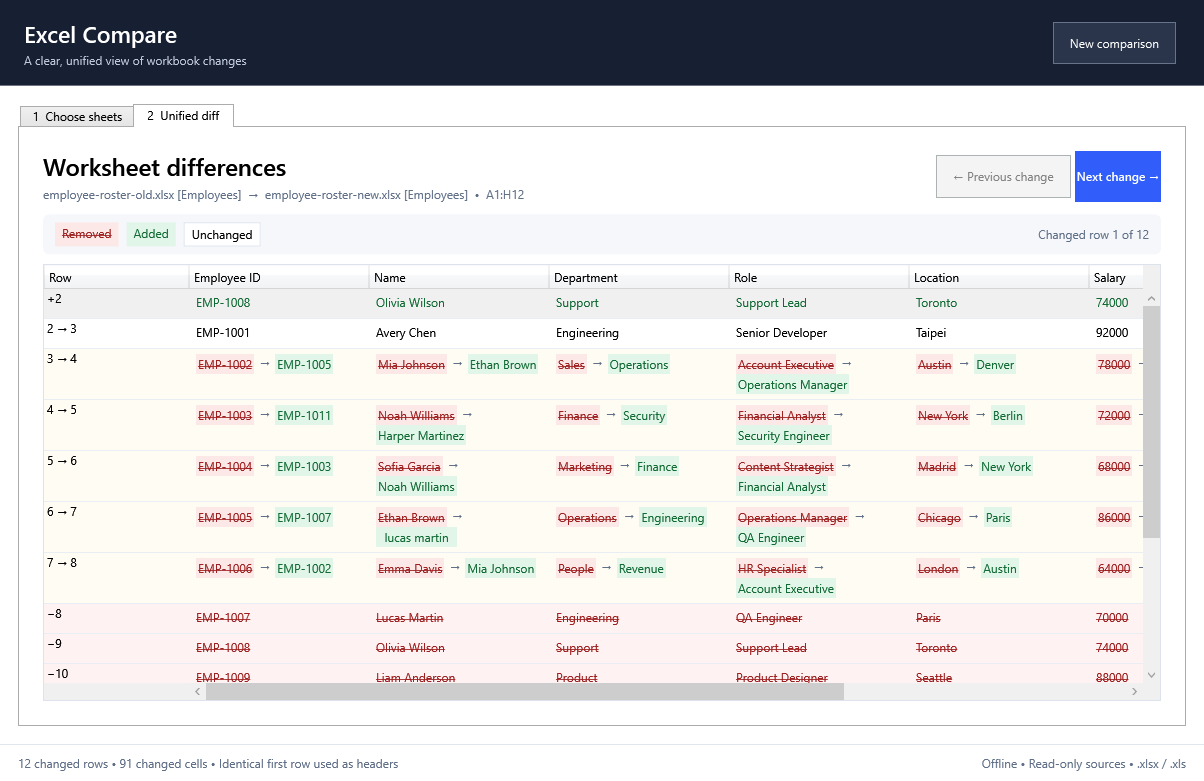
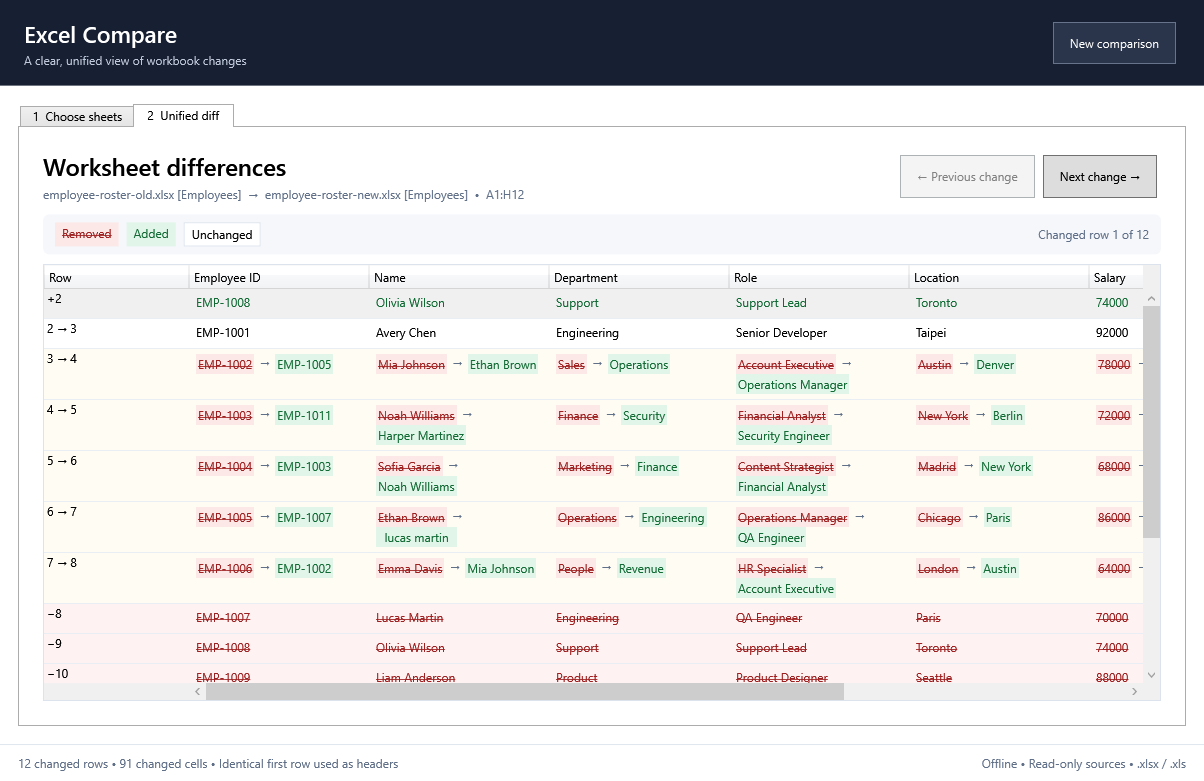
Unify comparison button styles

Changed region(s): [[0.7683, 0.1844, 0.9834, 0.2766]]

diff --git a/src/ExcelDiff.App/MainWindow.xaml b/src/ExcelDiff.App/MainWindow.xaml
@@ -54,8 +54,7 @@
                             </Grid>
                         </Border>
 
-                        <Button Content="Compare worksheets" Style="{StaticResource PrimaryButton}"
-                                HorizontalAlignment="Right" Click="Compare_Click"/>
+                        <Button Content="Compare worksheets" HorizontalAlignment="Right" Click="Compare_Click"/>
                     </StackPanel>
                 </ScrollViewer>
             </TabItem>
@@ -75,7 +74,7 @@
                         </StackPanel>
                         <StackPanel DockPanel.Dock="Right" Orientation="Horizontal" HorizontalAlignment="Right">
                             <Button x:Name="PreviousDifferenceButton" Content="← Previous change" Click="PreviousDifference_Click"/>
-                            <Button x:Name="NextDifferenceButton" Content="Next change →" Style="{StaticResource PrimaryButton}" Click="NextDifference_Click"/>
+                            <Button x:Name="NextDifferenceButton" Content="Next change →" Click="NextDifference_Click"/>
                         </StackPanel>
                     </DockPanel>
 
